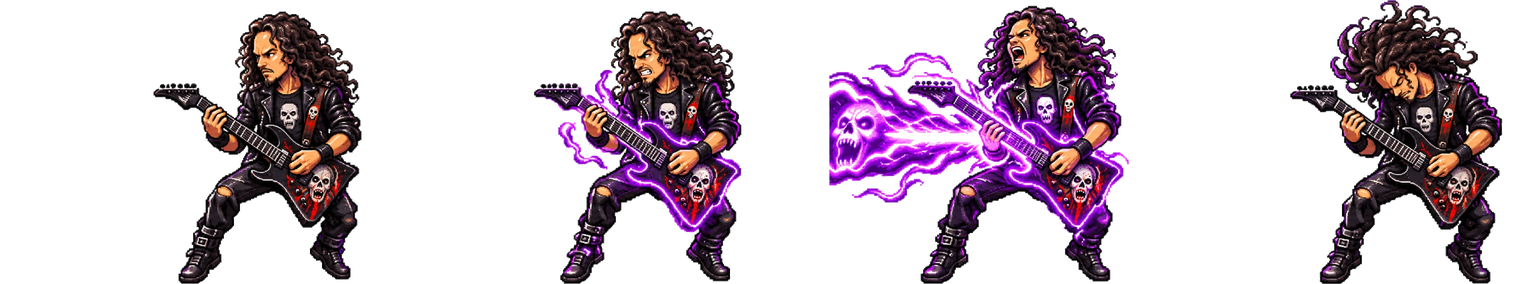
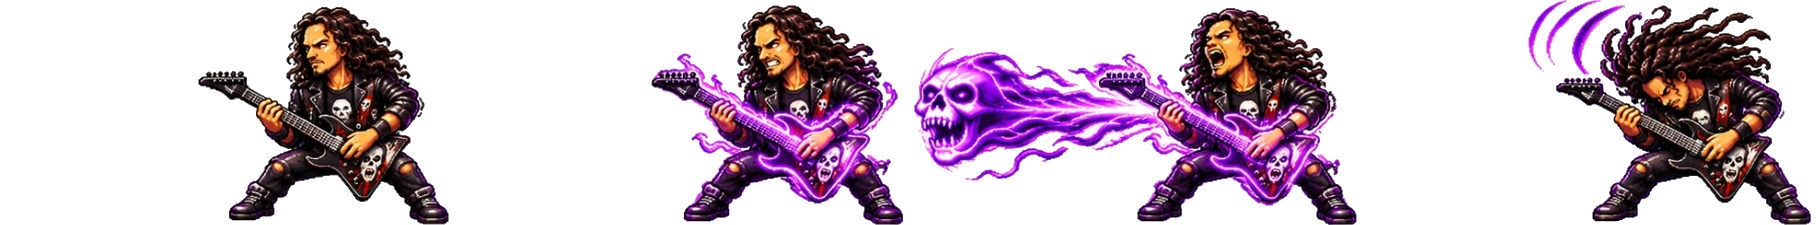
Metallica com a arte nova (Kirk, Lars de bone com dois bumbos, Trujillo); integrante limitado tambem na largura para manter o porte
Claude-Session: https://claude.ai/code/session_01YU21iq1A5cr81r2vc4qJPp

diff --git a/src/Jogo/AtlasInimigos.java b/src/Jogo/AtlasInimigos.java
@@ -97,7 +97,7 @@ public final class AtlasInimigos {
     }
     /** Desenha o integrante com o corpo centrado em (x, y); o golpe sai para a esquerda, fora do corpo. */
     static void integrante(Graphics2D g, BufferedImage arte, int x, int y, int quadro) {
-        int fw = arte.getWidth() / 4, h = 200; double e = h / (double) arte.getHeight(); int w = (int) (fw * e);
+        int fw = arte.getWidth() / 4; double e = Math.min(200.0 / arte.getHeight(), 260.0 / fw); int h = (int) (arte.getHeight() * e), w = (int) (fw * e);
         int x0 = x - (int) (fw * .67 * e), y0 = y - h / 2;
         Graphics2D a = (Graphics2D) g.create();
         a.setRenderingHint(java.awt.RenderingHints.KEY_INTERPOLATION, java.awt.RenderingHints.VALUE_INTERPOLATION_BILINEAR);
